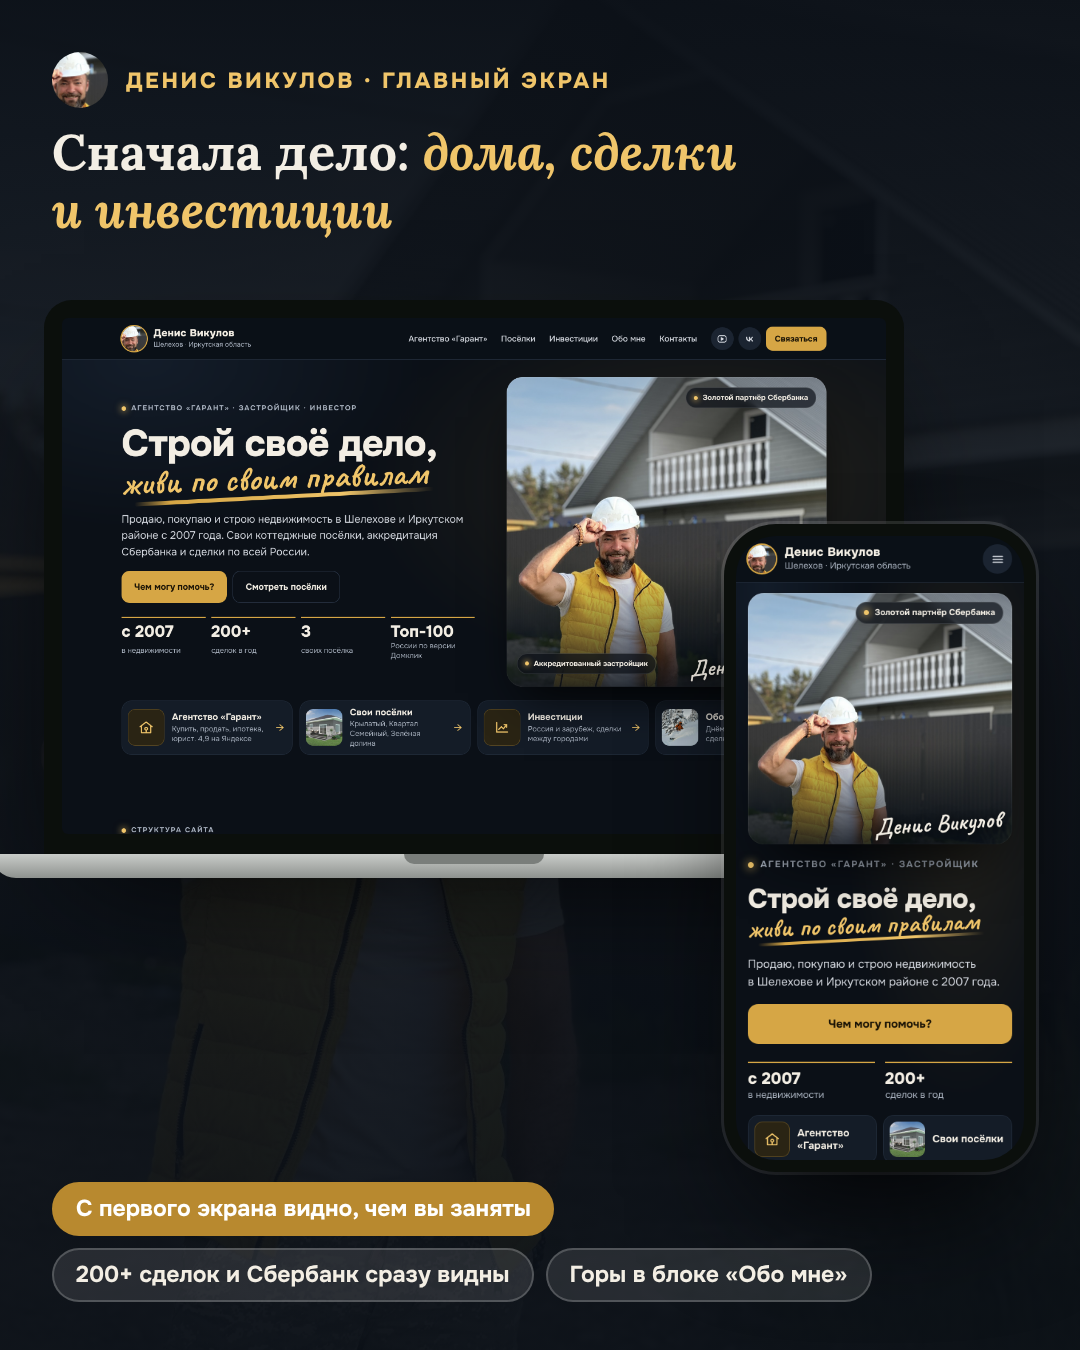
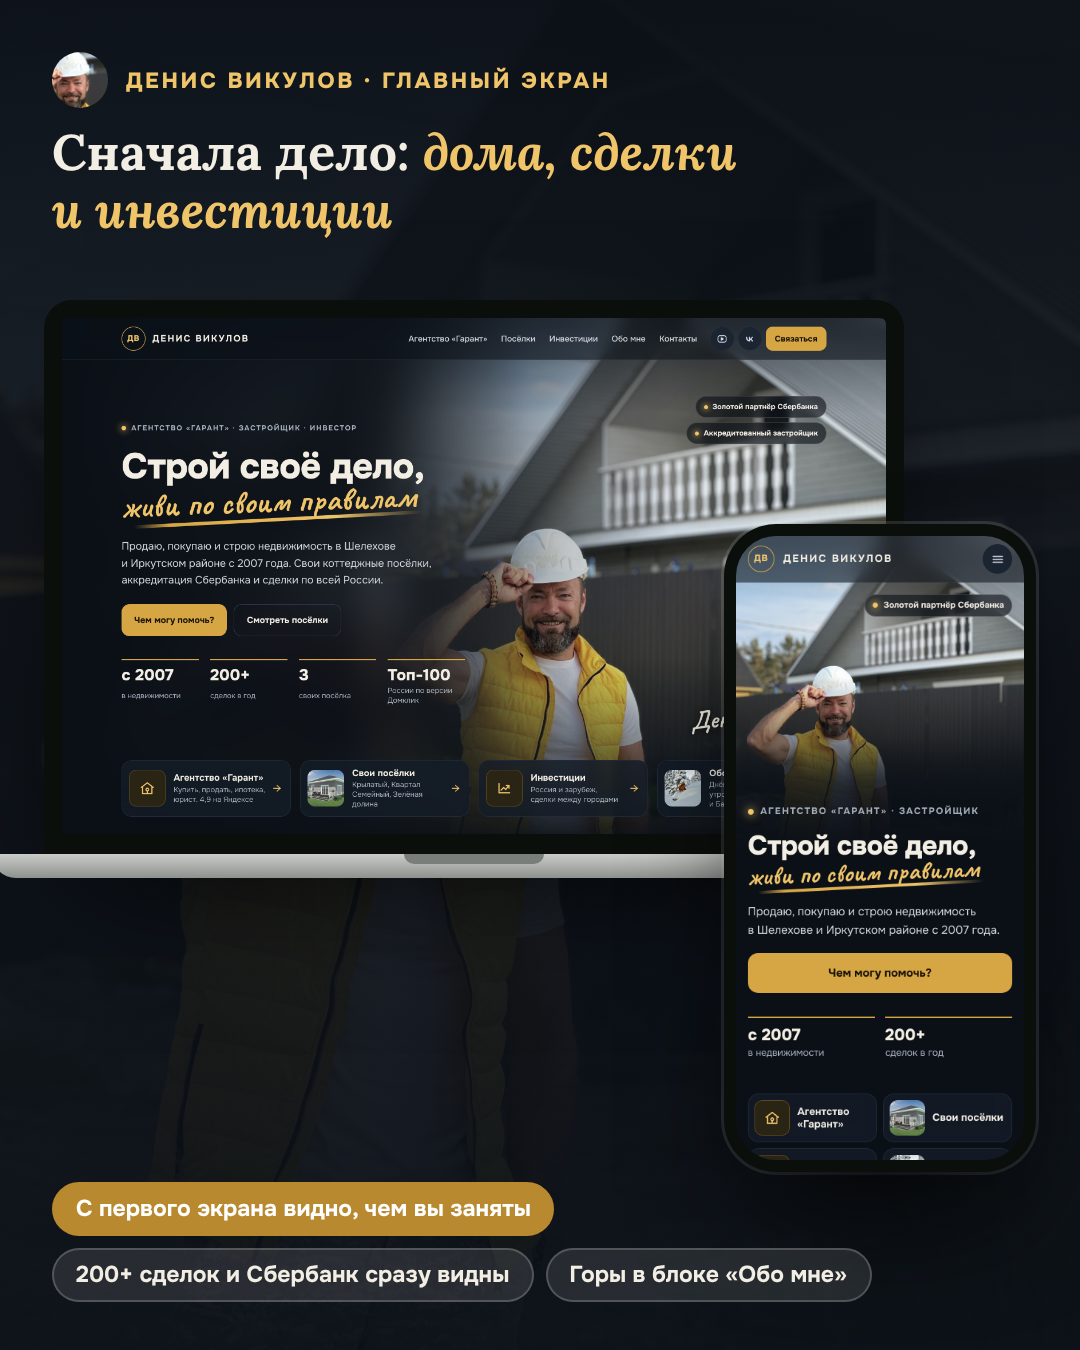
Денис Викулов: фото на всю ширину, больше воздуха, монограмма в шапке (по разбору в чате обучения)
Claude-Session: https://claude.ai/code/session_01MqcZMF1QZGroxt2dRB4nWR

Changed region(s): [[0.0917, 0.2178, 0.9472, 0.8711], [0.0917, 0.2178, 0.2139, 0.28]]

diff --git a/denis-vikulov/index.html b/denis-vikulov/index.html
@@ -42,11 +42,11 @@ button{font:inherit;color:inherit;cursor:pointer}
 .btn[disabled]{opacity:.45;cursor:not-allowed;transform:none}
 
 /* шапка */
-header{position:sticky;top:0;z-index:20;background:rgb(11 16 23 / .86);backdrop-filter:blur(12px);border-bottom:1px solid var(--line)}
+header{position:sticky;top:0;z-index:20;background:rgb(11 16 23 / .55);backdrop-filter:blur(14px);border-bottom:1px solid rgb(255 255 255 / .06)}
 header .wrap{display:flex;align-items:center;gap:24px;height:72px}
 .logo{display:flex;align-items:center;gap:12px;text-decoration:none}
-.logo img{width:44px;height:44px;border-radius:50%;object-fit:cover;box-shadow:0 0 0 2px var(--gold)}
-.logo b{display:block;font-weight:800;font-size:18px;letter-spacing:.02em;line-height:1.1}
+.mono{width:42px;height:42px;border-radius:50%;display:grid;place-items:center;border:1.5px solid var(--gold);color:var(--gold-hi);font-weight:800;font-size:14px;letter-spacing:.06em}
+.logo b{display:block;font-weight:700;font-size:16px;letter-spacing:.14em;text-transform:uppercase;line-height:1.1}
 .logo small{display:block;font-size:12px;color:var(--muted)}
 nav{display:flex;gap:24px;margin-left:auto;font-size:14.5px;font-weight:500;color:#D5D9E0}
 nav a{text-decoration:none}
@@ -57,37 +57,35 @@ nav a:hover{color:var(--gold-hi)}
 .ic.menu{display:none}
 .h-cta{padding:10px 16px;border-radius:12px;font-size:14.5px}
 @media (max-width:1150px){nav{display:none}.h-right{margin-left:auto}}
-@media (max-width:640px){header .wrap{height:62px}.logo img{width:38px;height:38px}.logo b{font-size:16.5px}.h-cta,.ic.soc{display:none}.ic.menu{display:grid}}
+@media (max-width:640px){header .wrap{height:62px}.mono{width:36px;height:36px;font-size:12.5px}.logo b{font-size:14px}.h-cta,.ic.soc{display:none}.ic.menu{display:grid}}
 
-/* главный экран */
-.hero{display:grid;grid-template-columns:minmax(0,1.05fr) minmax(0,.95fr);gap:clamp(24px,4vw,56px);padding-top:30px;align-items:stretch}
-.h-left{display:grid;gap:18px;align-content:center}
-.hero h1{font-weight:800;font-size:clamp(40px,4.6vw,66px);line-height:1;letter-spacing:-.02em}
-.hero h1 .scr{display:block;position:relative;width:max-content;max-width:100%;margin-top:.12em;font-family:var(--script);font-weight:700;font-size:clamp(40px,4.15vw,60px);line-height:1;letter-spacing:0;color:var(--gold-hi);transform:rotate(-2deg);transform-origin:left center}
+/* главный экран: фото Дениса на всю ширину, слева текст на затемнении */
+.stage{position:relative;isolation:isolate;overflow:hidden;margin-top:-72px;padding-top:72px}
+.bg-blur,.bg-photo{position:absolute;z-index:-3;pointer-events:none}
+.bg-blur{inset:-40px;background:url(img/denis-kaska.jpg) 50% 30%/cover;filter:blur(34px) saturate(.9);opacity:.7}
+.bg-photo{z-index:-2;top:0;right:0;bottom:0;width:62%;background:url(img/denis-kaska.jpg) 28% 22%/cover;-webkit-mask-image:linear-gradient(90deg,transparent 0%,#000 30%);mask-image:linear-gradient(90deg,transparent 0%,#000 30%)}
+.stage::after{content:"";position:absolute;inset:0;z-index:-1;background:linear-gradient(90deg,var(--bg) 0%,rgb(11 16 23 / .9) 34%,rgb(11 16 23 / .35) 56%,transparent 74%),linear-gradient(180deg,rgb(11 16 23 / .6) 0%,transparent 18%,transparent 64%,var(--bg) 100%)}
+.hero{position:relative;display:grid;grid-template-columns:minmax(0,600px) minmax(0,1fr);gap:40px;min-height:clamp(560px,calc(100vh - 210px),720px);padding-block:clamp(48px,7vh,84px) 40px;align-items:center}
+.h-left{display:grid;gap:26px;align-content:center}
+.hero h1{font-weight:800;font-size:clamp(40px,4.4vw,64px);line-height:1;letter-spacing:-.02em}
+.hero h1 .scr{display:block;position:relative;width:max-content;max-width:100%;margin-top:.16em;font-family:var(--script);font-weight:700;font-size:clamp(40px,4vw,58px);line-height:1;letter-spacing:0;color:var(--gold-hi);transform:rotate(-2deg);transform-origin:left center}
 .hero h1 .scr::after{content:"";position:absolute;left:4%;right:-2%;bottom:-.1em;height:.11em;border-radius:99px;background:linear-gradient(90deg,transparent,var(--gold) 12%,var(--gold-hi) 70%,transparent);transform:rotate(-1deg)}
-.sub{font-size:clamp(16px,1.3vw,18.5px);color:#D5D9E0;max-width:54ch}
-.sub b{color:var(--ink)}
-.acts{display:flex;flex-wrap:wrap;gap:10px}
-.stats{display:grid;grid-template-columns:repeat(4,minmax(0,1fr));gap:10px;margin-top:6px}
-.stats div{border-top:2px solid var(--gold);padding-top:10px;display:grid;gap:2px}
+.sub{font-size:clamp(16px,1.3vw,18.5px);color:#D5D9E0;max-width:46ch;line-height:1.6}
+.acts{display:flex;flex-wrap:wrap;gap:12px}
+.stats{display:grid;grid-template-columns:repeat(4,minmax(0,1fr));gap:20px;margin-top:14px}
+.stats div{border-top:2px solid var(--gold);padding-top:12px;display:grid;gap:4px}
 .stats b{font-size:clamp(22px,2vw,28px);font-weight:800;line-height:1.05}
 .stats span{font-size:13px;color:var(--muted);line-height:1.3}
-
-.stage{position:relative;isolation:isolate}
-.stage::before{content:"";position:absolute;inset:0;z-index:-1;background:radial-gradient(60% 70% at 78% 30%,rgb(214 166 69 / .13),transparent 70%),radial-gradient(50% 60% at 10% 0%,rgb(60 90 130 / .18),transparent 70%)}
-.h-pics{position:relative}
-.collage{position:relative;min-height:540px;height:100%}
-.ph-main{position:absolute;inset:0;border-radius:28px;overflow:hidden;background:url(img/denis-kaska.jpg) 30% 28%/cover;box-shadow:0 40px 80px -30px rgb(0 0 0 / .9);outline:1px solid rgb(255 255 255 / .16);outline-offset:-1px}
-.ph-main::after{content:"";position:absolute;inset:0;background:linear-gradient(180deg,rgb(11 16 23 / .2) 0%,transparent 26%,transparent 60%,rgb(11 16 23 / .85) 100%)}
-.sign{position:absolute;z-index:2;right:24px;bottom:18px;font-family:var(--script);font-size:40px;line-height:1;color:var(--ink);text-shadow:0 2px 14px rgb(0 0 0 / .7);transform:rotate(-4deg)}
-.chip{position:absolute;z-index:3;display:inline-flex;align-items:center;gap:8px;background:rgb(11 16 23 / .7);backdrop-filter:blur(8px);border:1px solid rgb(255 255 255 / .14);border-radius:999px;padding:7px 13px;font-size:13px;font-weight:700;white-space:nowrap}
+.h-marks{position:relative;align-self:stretch}
+.chip{position:absolute;z-index:3;display:inline-flex;align-items:center;gap:8px;background:rgb(11 16 23 / .62);backdrop-filter:blur(8px);border:1px solid rgb(255 255 255 / .14);border-radius:999px;padding:8px 14px;font-size:13px;font-weight:700;white-space:nowrap}
 .chip::before{content:"";width:7px;height:7px;border-radius:50%;background:var(--gold-hi);box-shadow:0 0 10px 2px rgb(240 197 106 / .6)}
-.chip.sber{top:18px;right:18px}
-.chip.akk{left:18px;bottom:22px}
+.chip.sber{top:0;right:0}
+.chip.akk{top:46px;right:0}
+.sign{position:absolute;right:0;bottom:6px;font-family:var(--script);font-size:44px;line-height:1;color:var(--ink);text-shadow:0 2px 14px rgb(0 0 0 / .7);transform:rotate(-4deg)}
 
 /* четыре входа */
-.dirs{display:grid;grid-template-columns:repeat(4,minmax(0,1fr));gap:12px;padding-block:24px 34px}
-.dir{display:grid;grid-template-columns:64px minmax(0,1fr) auto;gap:13px;align-items:center;padding:10px 14px 10px 10px;border-radius:18px;background:var(--surface);border:1px solid var(--line);text-decoration:none;transition:border-color .15s,background .15s}
+.dirs{display:grid;grid-template-columns:repeat(4,minmax(0,1fr));gap:16px;padding-block:8px 56px}
+.dir{display:grid;grid-template-columns:64px minmax(0,1fr) auto;gap:14px;align-items:center;padding:12px 16px 12px 12px;border-radius:18px;background:rgb(20 28 39 / .82);backdrop-filter:blur(10px);border:1px solid var(--line);text-decoration:none;transition:border-color .15s,background .15s}
 .dir:hover{border-color:var(--gold-line);background:var(--surface2)}
 .dir .th{width:64px;height:64px;border-radius:13px;background:var(--surface3) center/cover;display:grid;place-items:center;color:var(--gold-hi)}
 .dir .th svg{width:28px;height:28px}
@@ -98,17 +96,17 @@ nav a:hover{color:var(--gold-hi)}
 
 @media (max-width:1100px){.dirs{grid-template-columns:repeat(2,minmax(0,1fr))}}
 @media (max-width:960px){
-  .hero{grid-template-columns:1fr;gap:18px;padding-top:14px}
-  .h-pics{order:-1}
-  .collage{min-height:0;height:320px}
-  .collage{height:360px}
+  .stage{margin-top:-62px;padding-top:62px}
+  .hero{grid-template-columns:1fr;min-height:0;padding-block:300px 28px;gap:0}
+  .bg-blur{display:none}
+  .bg-photo{left:0;width:auto;bottom:auto;height:460px;background-position:30% 18%;-webkit-mask-image:linear-gradient(180deg,#000 60%,transparent);mask-image:linear-gradient(180deg,#000 60%,transparent)}
+  .stage::after{background:linear-gradient(180deg,rgb(11 16 23 / .35) 0,transparent 90px,transparent 190px,rgb(11 16 23 / .8) 330px,var(--bg) 440px)}
+  .h-marks{position:absolute;inset:16px 0 auto 0;height:260px}
+  .chip.akk,.sign{display:none}
 }
 @media (max-width:640px){
-  .collage{height:300px}
-  .collage{height:340px}
-  .ph-main{border-radius:22px;background-position:30% 22%}
-  .sign{font-size:32px;right:14px;bottom:12px}.chip.akk{display:none}
-  .chip{font-size:11.5px;padding:5px 10px}.chip.sber{top:12px;right:12px}
+  .chip{font-size:11.5px;padding:5px 10px}
+  .h-left{gap:18px}
   .hero h1{font-size:37px}
   .hero h1 .scr{font-size:35px;width:max-content}
   .eyebrow .long2{display:none}
@@ -193,7 +191,7 @@ dialog p{color:var(--muted);font-size:14.5px;margin-bottom:8px}
 
 <header>
   <div class="wrap">
-    <a class="logo" href="#top"><img src="img/avatar.jpg" alt=""><span><b>Денис Викулов</b><small>Шелехов · Иркутская область</small></span></a>
+    <a class="logo" href="#top"><span class="mono">ДВ</span><b>Денис Викулов</b></a>
     <nav aria-label="Разделы">
       <a href="#struktura">Агентство «Гарант»</a>
       <a href="#struktura">Посёлки</a>
@@ -212,6 +210,7 @@ dialog p{color:var(--muted);font-size:14.5px;margin-bottom:8px}
 
 <main id="top">
   <div class="stage">
+  <div class="bg-blur"></div><div class="bg-photo"></div>
   <div class="wrap">
     <div class="hero">
       <div class="h-left">
@@ -229,11 +228,7 @@ dialog p{color:var(--muted);font-size:14.5px;margin-bottom:8px}
           <div><b>Топ-100</b><span>России по&nbsp;версии Домклик</span></div>
         </div>
       </div>
-      <div class="h-pics">
-        <div class="collage">
-          <div class="ph-main"><span class="chip sber">Золотой партнёр Сбербанка</span><span class="chip akk">Аккредитованный застройщик</span><span class="sign">Денис Викулов</span></div>
-        </div>
-      </div>
+      <div class="h-marks"><span class="chip sber">Золотой партнёр Сбербанка</span><span class="chip akk">Аккредитованный застройщик</span><span class="sign">Денис Викулов</span></div>
     </div>
 
     <div class="dirs" id="vhody">
